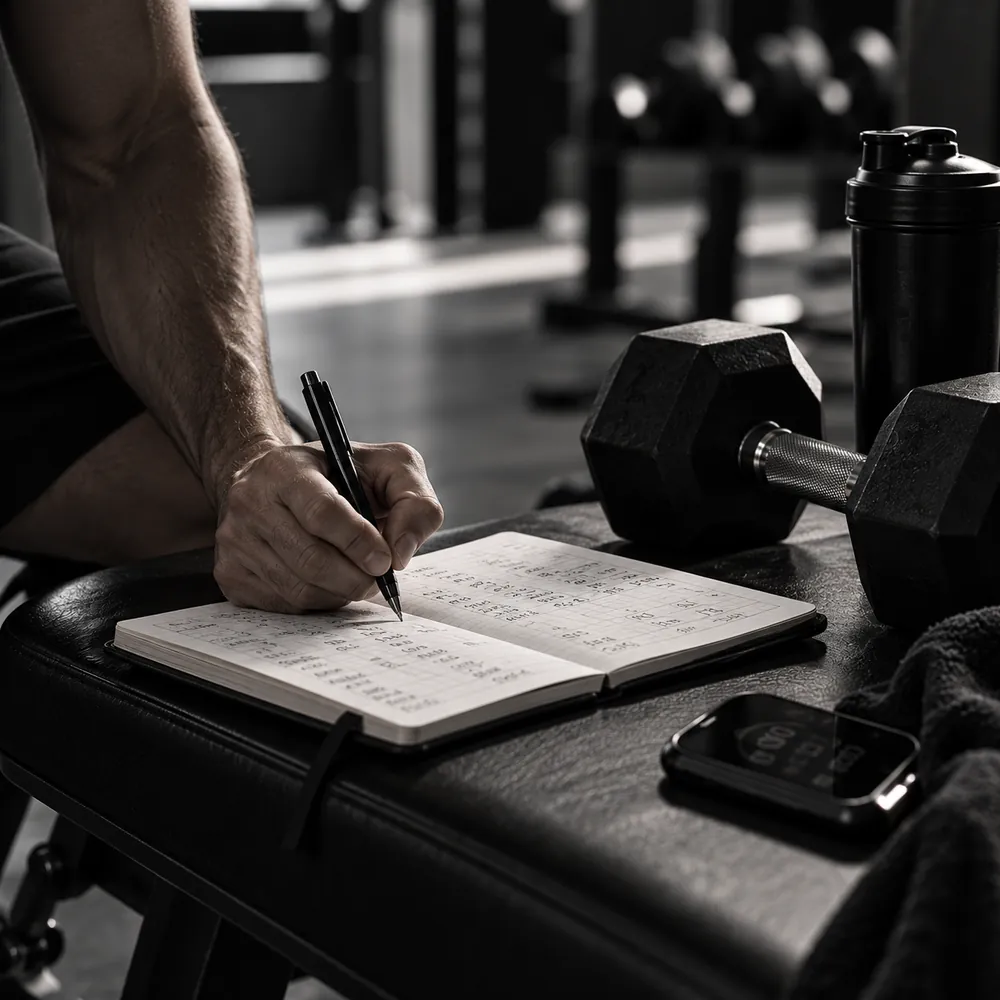
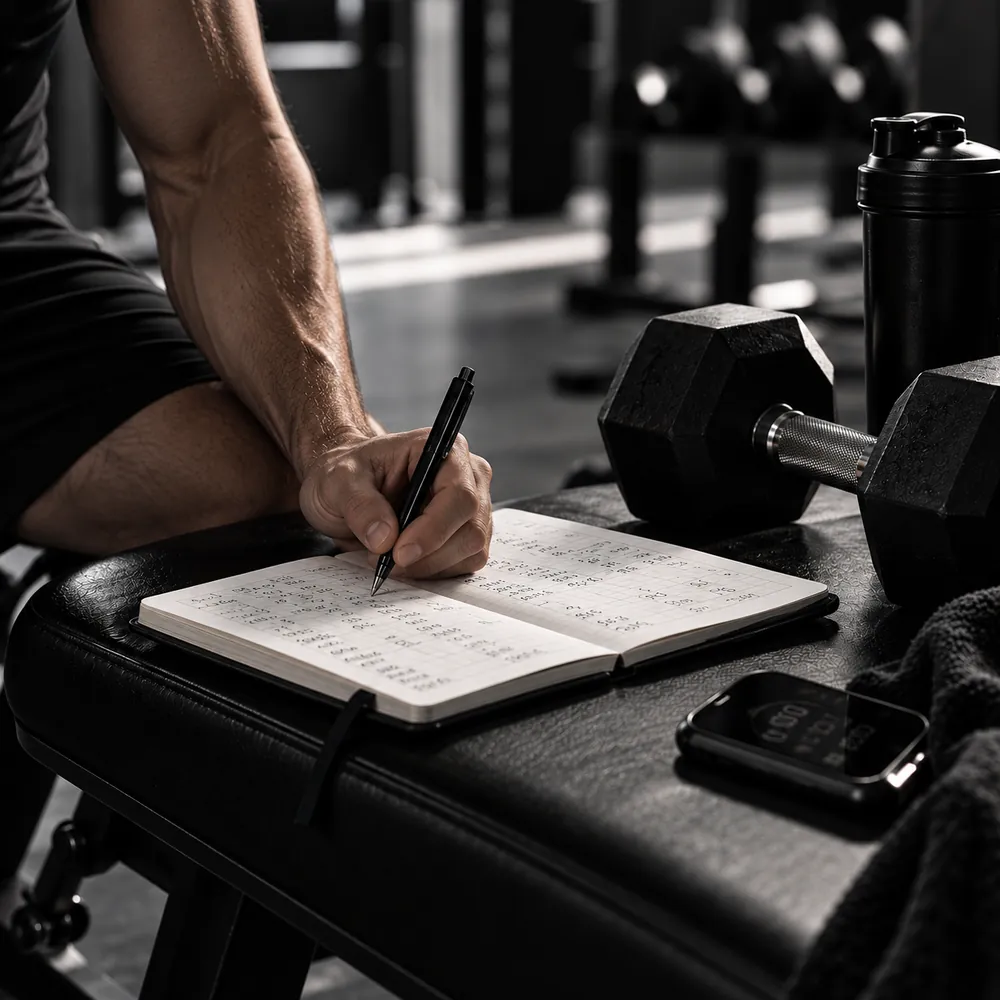
La proporcion de la banda viaja por CSS, no por los atributos del <source>
Dos correcciones que viajan juntas porque son las dos superficies fotograficas
que quedaban abiertas.

§3. La foto de entrenamiento se veia deformada en Safari/iPhone y no en Chrome.
La causa: la proporcion 4:5 de la rama mobile viajaba por un unico canal, los
atributos width/height del <source>, cuyo soporte en WebKit es el punto debil.
Cuando ese canal falla, la caja se queda con la proporcion del <img> — 1440x960,
3:2 — y como object-fit no estaba declarado valia su valor inicial, fill, que no
recorta: estira. La imagen se aplastaba 1,875x, y eso es lo que se veia en el
telefono.

La correccion saca la geometria del atributo HTML y la pone en CSS, donde todos
los motores coinciden, con los mismos breakpoints que el media del <source> para
que caja y asset no puedan desfasarse. object-fit:cover queda como red: hoy las
proporciones coinciden exactas y pinta igual que fill, pero si alguna vez hubiera
discrepancia recorta en vez de deformar. La deformacion catastrofica deja de ser
un modo de falla posible.

El HTML no se toca y ningun asset se regenera. Validado en iPhone real sobre
preview antes de publicar, que es la unica forma de comprobarlo: Chrome headless
no reproduce WebKit y por eso las mediciones anteriores no lo vieron.

§5. registro-cuaderno.webp se reemplaza por una toma nueva. El motivo no es
tecnico: en la anterior la mano que escribia y el fragmento de torso visible
sugerian orientaciones corporales incompatibles, y la escena se leia armada. El
[…]

diff --git a/assets/css/site.css b/assets/css/site.css
@@ -80,7 +80,14 @@ h2.st{font-size:24px;font-weight:700;letter-spacing:-.03em;line-height:1.08;
 .gram{display:flex;gap:14px;align-items:flex-start}
 .banda{margin-top:30px}
 .banda picture{display:block}
-.banda img{width:100%;height:auto}
+/* La proporción de cada rama viaja por CSS, no por los atributos del <source>:
+   WebKit no siempre los aplica, y con object-fit en su valor inicial (fill) una
+   caja 3:2 con una imagen 4:5 adentro no recorta — estira, 1,875x. Los
+   breakpoints son los mismos que el media del <source>: no pueden desfasarse.
+   cover es la red: si alguna vez hubiera discrepancia, recorta en vez de deformar. */
+.banda img{width:100%;height:auto;object-fit:cover}
+@media (max-width:639px){ .banda img{aspect-ratio:1120/1400} }
+@media (min-width:640px){ .banda img{aspect-ratio:1440/960} }
 .recorte{position:relative;flex:0 0 auto;width:118px;height:118px;
   border:1px solid rgba(255,255,255,.85);background:var(--fondo)}
 .papel .recorte{border-color:var(--txt-p)}

diff --git a/DEPLOY.md b/DEPLOY.md
@@ -467,8 +467,9 @@ sigue intacta: el componente pertenece al servicio, nunca a la `Person`.
 
 ### 12.4 · Fotografía: registro reemplaza al disco, y cambia de plano
 
-`recorte-disco.webp` (180 × 180) se reemplaza por **`registro-cuaderno.webp` (1000 × 1000, 56 KB)**,
-generado desde el original de 1254 × 1254.
+`recorte-disco.webp` (180 × 180) se reemplaza por **`registro-cuaderno.webp` (1000 × 1000, 62 KB)**.
+El original, de 1239 × 1269, se recorta al centro a 1239 × 1239 —15 px arriba y 15 px abajo, 1,2 %
+por lado— para entrar en el slot cuadrado sin deformar, y recién ahí se remuestrea.
 
 Es **imagen generada, no documental**, igual que la de §3. Pero a diferencia de aquélla conserva
 la gramática `.recorte`/`.nota` —filete y número invertido— porque ocupa el lugar estructural de
